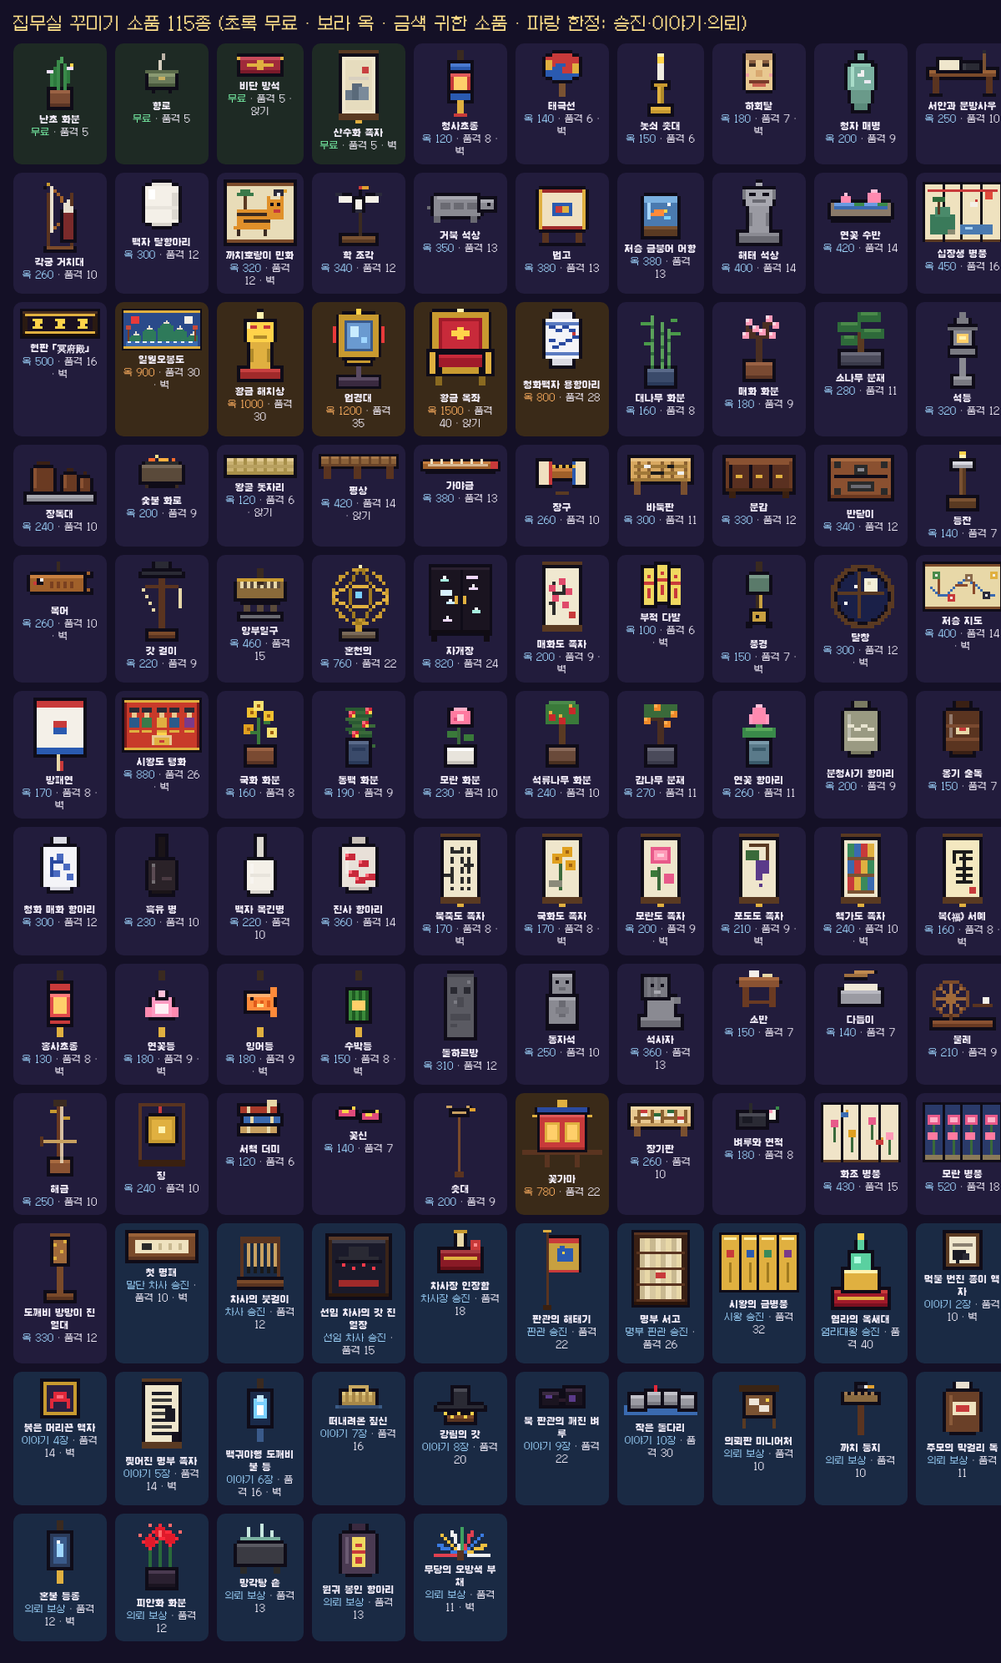
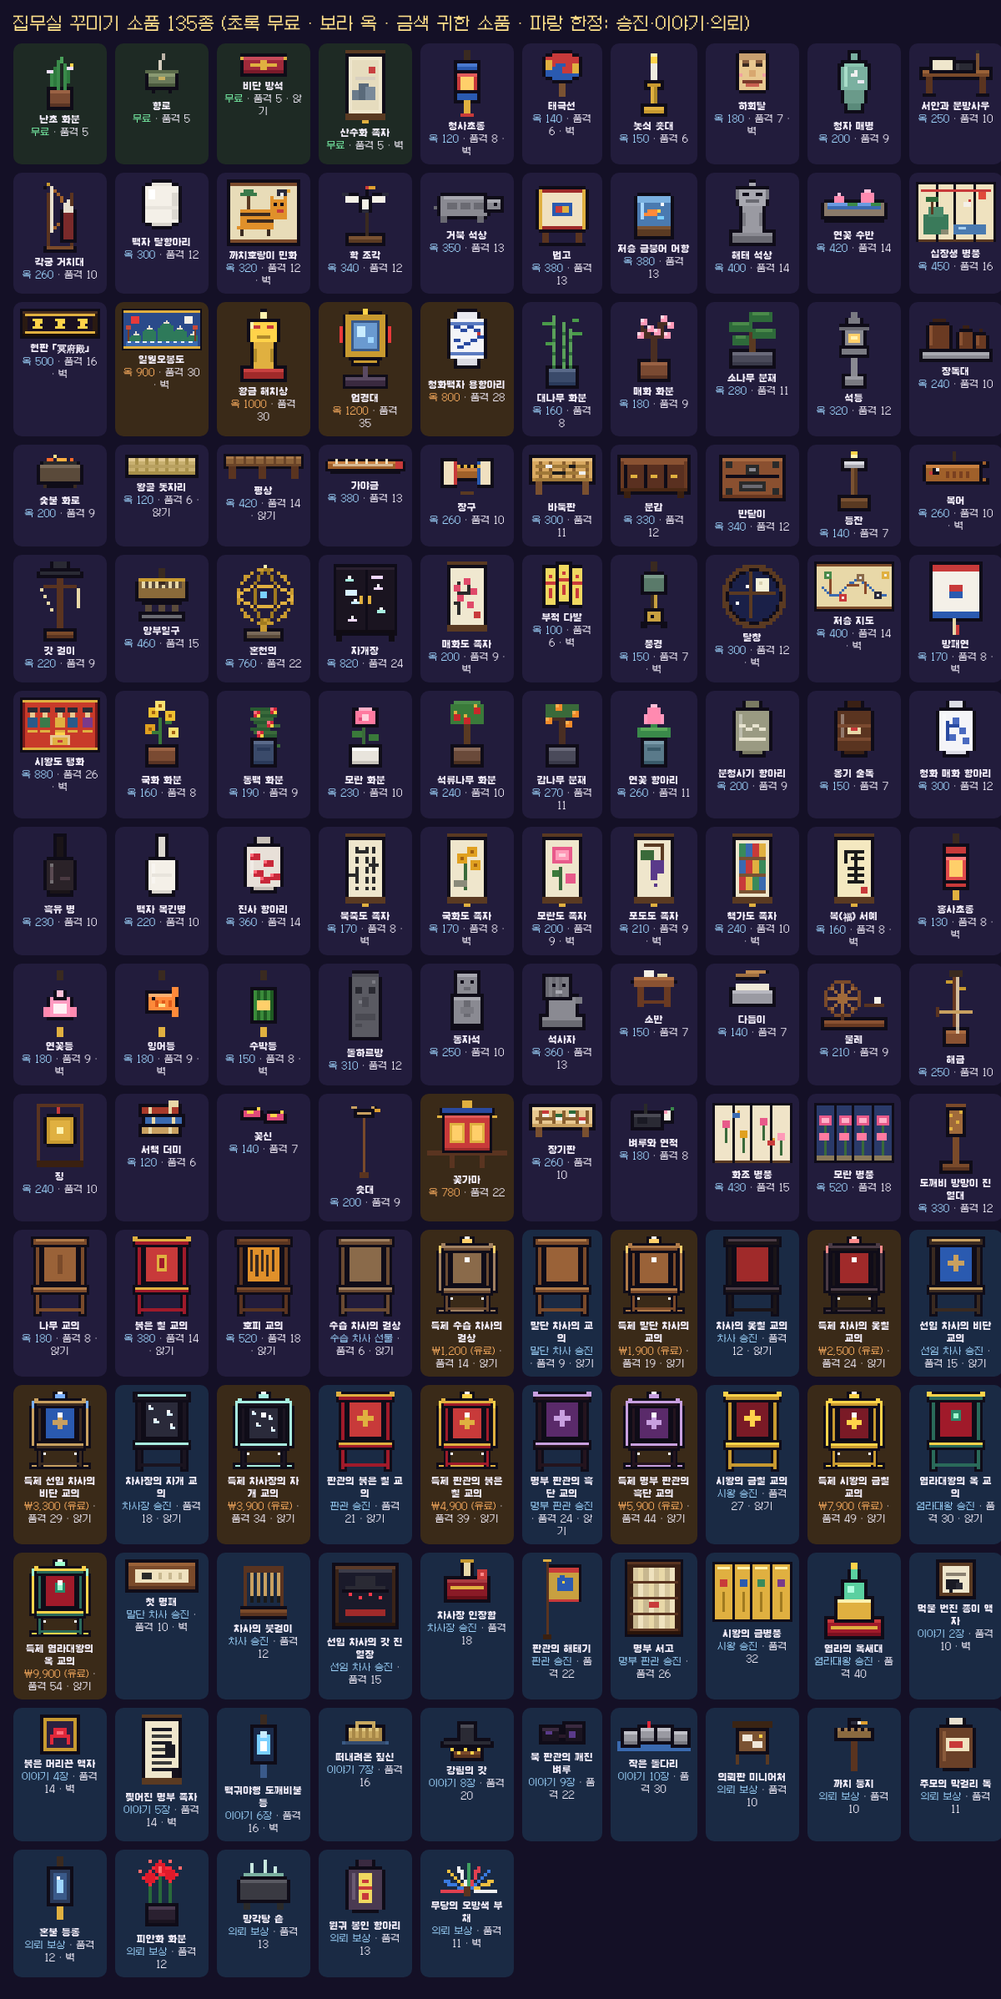
저승사자 키우기 미리보기: 직급별 의자 선물·특제 의자(유료)·책상 가운데 맞춤·보유 시 재구매 확인 (게임 미적용)
- 책상 뒤에 놓는 의자는 항상 책상 가운데에 맞춰짐
- 직급별 의자 9종: 첫 출근·승진할 때마다 선물
- 직급별 특제 의자 9종: 해당 직급부터 유료(테스트 결제)로 구매, 날개 장식·보석·빛
- 용상·황금 옥좌 삭제, 염라 세트 구성 변경
- 이미 가진 소품을 사려 하면 'x개 갖고 있어요, 더 살까요?' 확인
- 상점에 '의자' 분류 추가

Claude-Session: https://claude.ai/code/session_01JaPanueqCrKrVGBfKrPe2n

diff --git a/reaper_preview/js/ui.js b/reaper_preview/js/ui.js
@@ -419,6 +419,7 @@ const UI = (() => {
   }
   // ---------- 집무실 ----------
   function enterOffice() {
+    { const g = Decor.grantRank(S().rank); if (g.length) setTimeout(() => toast(g.length === 1 ? `🎁 「${g[0].name}」을(를) 선물로 받았어요! 꾸미기에서 놓아 보세요` : `🎁 직급 선물 ${g.length}개를 받았어요! (의자 ${g.filter(d => d.chair).length}개 포함) 꾸미기에서 놓아 보세요`, 3600), 600); }
     if (!Scene.inOffice()) { Scene.enterOffice(S().rank); Sound.play('open'); }
     let bar = $('#office-bar'); if (!bar) { bar = document.createElement('div'); bar.id = 'office-bar'; $('#stage').appendChild(bar); }
     const N = Game.nextRank();
@@ -549,18 +550,21 @@ const UI = (() => {
   }
   let shopCat = 'all';
   function decoShop() {
-    const s = S(), cats = [['all', '전체'], ['set', '세트'], ['floor', '바닥'], ['wall', '벽'], ['seat', '앉기'], ['premium', '귀한 것'], ['ex', '한정']];
-    const how = d => d.rank ? `${RANKS[d.rank].name} 승진` : d.story != null ? `이야기 ${d.story + 1}장` : '의뢰 보상';
-    const card = d => { const n = Decor.owned(d.id), ex = d.rank || d.story != null || d.quest; return `<div class="ds-card ${d.premium ? 'cash' : ''} ${ex ? 'ex' : ''}"><img class="px" src="${decoThumb(d.id, 3)}"><b>${d.name}</b><small>품격 +${d.pt}${d.seat ? ' · 앉기' : ''}${d.wall ? ' · 벽' : ''}</small><p>${d.desc}</p>${n ? `<em>보유 ${n}</em>` : ''}
-      ${ex ? `<button class="btn dark" disabled>${n ? '획득 완료' : '🔒 ' + how(d)}</button>` : d.free ? '<button class="btn dark" disabled>무료 지급</button>' : `<button class="btn jade" data-dbuy="${d.id}" ${s.jade >= d.price ? '' : 'disabled'}><img class="px" src="${IC('jade', 2)}">${d.price}</button>`}</div>`; };
+    const s = S(), cats = [['all', '전체'], ['set', '세트'], ['floor', '바닥'], ['wall', '벽'], ['seat', '앉기'], ['chair', '의자'], ['premium', '귀한 것'], ['ex', '한정']];
+    const how = d => d.rank != null ? (d.rank ? `${RANKS[d.rank].name} 승진` : '첫 출근 선물') : d.story != null ? `이야기 ${d.story + 1}장` : '의뢰 보상';
+    const card = d => { const n = Decor.owned(d.id), ex = Decor.isEx(d); return `<div class="ds-card ${d.premium ? 'cash' : ''} ${ex ? 'ex' : ''}"><img class="px" src="${decoThumb(d.id, 3)}"><b>${d.name}</b><small>품격 +${d.pt}${d.seat ? ' · 앉기' : ''}${d.wall ? ' · 벽' : ''}</small><p>${d.desc}</p>${n ? `<em>보유 ${n}</em>` : ''}
+      ${ex ? `<button class="btn dark" disabled>${n ? '획득 완료' : '🔒 ' + how(d)}</button>` : d.cash ? (s.rank >= d.rankReq ? `<button class="btn red" data-dcash="${d.id}">${d.cash}</button>` : `<button class="btn dark" disabled>🔒 ${RANKS[d.rankReq].name} 이상</button>`) : d.free ? '<button class="btn dark" disabled>무료 지급</button>' : `<button class="btn jade" data-dbuy="${d.id}" ${s.jade >= d.price ? '' : 'disabled'}><img class="px" src="${IC('jade', 2)}">${d.price}</button>`}</div>`; };
     const pack = P => { const got = Decor.packBought(P.id); return `<div class="ds-pack ${got ? 'got' : ''}"><div class="ds-pi">${P.items.map(id => `<img class="px" src="${decoThumb(id, 2)}">`).join('')}</div><div class="ds-pt"><b>${P.name}</b><small>${P.items.map(id => Decor.D(id).name).join(' · ')}</small><small><s>옥 ${P.full}</s> → <b class="sale">30% 할인</b></small></div>${got ? '<button class="btn dark" disabled>구매 완료</button>' : `<button class="btn jade" data-dpack="${P.id}" ${s.jade >= P.price ? '' : 'disabled'}><img class="px" src="${IC('jade', 2)}">${P.price}</button>`}</div>`; };
-    const list = shopCat === 'set' ? '' : DECOR.filter(d => shopCat === 'all' || (shopCat === 'floor' && !d.wall) || (shopCat === 'wall' && d.wall) || (shopCat === 'seat' && d.seat) || (shopCat === 'premium' && d.premium) || (shopCat === 'ex' && (d.rank || d.story != null || d.quest))).sort((a, b) => ((a.free ? 0 : a.price || 99999 + (a.rank || 0) * 10 + (a.story != null ? 100 + a.story : 0))) - ((b.free ? 0 : b.price || 99999 + (b.rank || 0) * 10 + (b.story != null ? 100 + b.story : 0))));
+    const list = shopCat === 'set' ? '' : DECOR.filter(d => shopCat === 'all' || (shopCat === 'floor' && !d.wall) || (shopCat === 'wall' && d.wall) || (shopCat === 'seat' && d.seat) || (shopCat === 'premium' && d.premium) || (shopCat === 'ex' && Decor.isEx(d)) || (shopCat === 'chair' && d.chair)).sort((a, b) => (a.free ? 0 : a.price || (a.cash ? 50000 + a.rankReq * 10 : 99999 + (a.rank || 0) * 10 + (a.story != null ? 100 + a.story : 0))) - (b.free ? 0 : b.price || (b.cash ? 50000 + b.rankReq * 10 : 99999 + (b.rank || 0) * 10 + (b.story != null ? 100 + b.story : 0))));
     const box = modal(`<h2>🏮 소품 상점 <small style="font-size:11px;color:var(--mute)">${DECOR.filter(d => Decor.owned(d.id)).length}/${DECOR.length}종 보유</small></h2><p class="mute">옥으로 사요. 놓은 소품의 품격만큼 수확량이 올라요 (최대 +40%) · 보유 옥 <b style="color:var(--jade)">${fmt(s.jade)}</b></p>
       <div class="ds-cats">${cats.map(([k, n]) => `<button data-dcat="${k}" class="${shopCat === k ? 'on' : ''}">${n}</button>`).join('')}</div>
       <div class="ds-scroll">${shopCat === 'all' || shopCat === 'set' ? `<div class="ds-packs">${DECOR_PACKS.map(pack).join('')}</div>` : ''}${list ? `<div class="ds-grid">${list.map(card).join('')}</div>` : ''}</div>
       <div class="acts"><button class="btn dark" data-act="close">닫기</button></div>`);
     box.querySelectorAll('[data-dcat]').forEach(b => b.onclick = () => { shopCat = b.dataset.dcat; closeModal(); decoShop(); });
-    box.querySelectorAll('[data-dbuy]').forEach(b => b.onclick = () => { const d = Decor.D(b.dataset.dbuy); if (Decor.buy(d.id)) { Sound.play('buy'); toast(`${d.name} 구입! 아래 목록에서 끌어다 놓아 보세요`); const sc = box.querySelector('.ds-scroll').scrollTop; closeModal(); decoBar(); decoShop(); const ns = $('#modal .ds-scroll'); if (ns) ns.scrollTop = sc; } else { Sound.play('no'); toast('옥이 부족해요'); } });
+    const askOwned = (d, go) => { const n = Decor.owned(d.id); if (!n) { go(); return; } const sc0 = box.querySelector('.ds-scroll').scrollTop; closeModal(); confirmBox(`<h2>${d.name}</h2><p>이미 <b style="color:var(--gold)">${n}개</b> 갖고 있어요.<br>하나 더 살까요?</p>`, () => { go(); }, '더 사기'); const cancel = $('#modal [data-act="close"]'); if (cancel) cancel.onclick = () => { closeModal(); decoShop(); const ns = $('#modal .ds-scroll'); if (ns) ns.scrollTop = sc0; }; };
+    box.querySelectorAll('[data-dcash]').forEach(b => b.onclick = () => { const d = Decor.D(b.dataset.dcash); askOwned(d, () => { closeModal(); confirmBox(`<h2>${d.name}</h2><p>${d.desc}</p><div class="big" style="color:var(--gold)">${d.cash}</div><p style="color:var(--mute);font-size:10px">테스트 결제: 실제로 청구되지 않습니다.</p>`, () => { if (Decor.buyCash(d.id)) { Sound.play('promote'); toast(`${d.name} 구입! 책상 뒤에 놓아 보세요`); decoBar(); } decoShop(); }, '구매'); }); });
+    box.querySelectorAll('[data-dbuy]').forEach(b => b.onclick = () => { const d = Decor.D(b.dataset.dbuy); askOwned(d, () => buyIt(d)); });
+    const buyIt = d => { const scEl = $('#modal .ds-scroll'); if (Decor.buy(d.id)) { Sound.play('buy'); toast(`${d.name} 구입! 아래 목록에서 끌어다 놓아 보세요`); const sc = scEl ? scEl.scrollTop : 0; closeModal(); decoBar(); decoShop(); const ns = $('#modal .ds-scroll'); if (ns) ns.scrollTop = sc; } else { Sound.play('no'); toast('옥이 부족해요'); } };
     box.querySelectorAll('[data-dpack]').forEach(b => b.onclick = () => { const P = DECOR_PACKS.find(x => x.id === b.dataset.dpack); closeModal(); confirmBox(`<h2>${P.name}</h2><p>${P.items.map(id => Decor.D(id).name).join(', ')}</p><p><s style="color:var(--mute)">옥 ${P.full}</s> → <b style="color:var(--jade)">옥 ${P.price}</b> (30% 할인 · 한 번만)</p>`, () => { if (Decor.buyPack(P.id)) { Sound.play('promote'); toast(`${P.name} 구입 완료!`); decoBar(); } else { Sound.play('no'); toast('옥이 부족해요'); } decoShop(); }, '구매'); });
   }
   function judgeModal() {

diff --git a/reaper_preview/js/decor.js b/reaper_preview/js/decor.js
@@ -85,9 +85,6 @@ const DECOR = (() => {
       box(r, 3, 24, 14, 3, '#3a2a40', '#5a4a62'); r(9, 18, 2, 6, '#5a4a62'); r(5, 18, 10, 2, O); r(6, 18, 8, 1, '#c89a30');
       r(4, 1, 12, 1, O); r(2, 2, 16, 15, O); r(4, 17, 12, 1, O); r(3, 2, 14, 15, '#c89a30'); r(5, 4, 10, 11, '#3a5a8a'); r(6, 5, 8, 9, '#6a9ad0'); r(7, 6, 3, 4, '#c8ecff'); r(11, 10, 2, 2, '#9fd6ff');
       r(1, 6, 1, 6, '#e83a3a'); r(18, 6, 1, 6, '#e83a3a'); r(9, 0, 2, 2, '#ffd34a'); }) },
-    { id: 'throne', price: 1500, premium: 1, name: '황금 옥좌', fw: 2, fh: 1, pt: 40, seat: 1, desc: '앉으면 저승이 내 것 같은 옥좌', glow: '#ffd34a', draw: () => mk(22, 26, r => {
-      r(2, 0, 18, 1, O); r(1, 1, 20, 15, O); r(2, 1, 18, 14, '#c89a30'); r(4, 3, 14, 12, '#a01a2a'); r(5, 4, 12, 10, '#c82a3a'); r(10, 6, 2, 4, '#ffd34a'); r(8, 7, 6, 2, '#ffd34a');
-      r(0, 13, 22, 1, O); r(0, 14, 4, 8, O); r(18, 14, 4, 8, O); r(1, 14, 2, 7, '#e0b040'); r(19, 14, 2, 7, '#e0b040'); box(r, 4, 15, 14, 4, '#a01a2a', '#c82a3a'); r(4, 19, 14, 3, O); r(5, 19, 12, 2, '#c89a30'); r(3, 22, 2, 3, '#8a6a20'); r(17, 22, 2, 3, '#8a6a20'); r(10, 0, 2, 1, '#fff3b0'); }) },
     { id: 'dragonjar', price: 800, premium: 1, name: '청화백자 용항아리', fw: 1, fh: 1, pt: 28, desc: '푸른 용이 휘감은 왕실 항아리', draw: () => mk(14, 20, r => {
       r(4, 0, 6, 1, O); r(3, 1, 8, 2, O); r(1, 3, 12, 12, O); r(3, 15, 8, 3, O); r(4, 1, 6, 2, '#e8e8f0'); r(2, 3, 10, 12, '#f4f4f8'); r(4, 15, 6, 2, '#dcdce4');
       [[3, 5], [5, 6], [7, 5], [9, 6], [10, 8], [8, 9], [6, 10], [4, 11], [3, 9]].forEach(([x, y]) => r(x, y, 2, 1, '#2a4aa0')); r(10, 7, 1, 1, '#c83a3a'); r(2, 4, 10, 1, '#5a7ac0'); r(2, 13, 10, 1, '#5a7ac0'); }) },
@@ -173,16 +170,19 @@ const DECOR_PACKS = [
   { id: 'p_salim', name: '정겨운 살림 세트', items: ['jangdok', 'bandaji', 'brazier', 'mat', 'fan'] },
   { id: 'p_jeoseung', name: '저승 관아 세트', items: ['mokeo', 'gatrack', 'bujeok', 'jeoseungmap', 'drum'] },
   { id: 'p_royal', name: '왕실 집무실 세트', items: ['irwol', 'goldhaechi', 'dragonjar'] },
-  { id: 'p_yeomra', name: '염라의 옥좌 세트', items: ['throne', 'mirror', 'taenghwa'] },
+  { id: 'p_yeomra', name: '염라의 업경대 세트', items: ['mirror', 'taenghwa', 'jagae'] },
 ];
 DECOR_PACKS.forEach(P => { P.full = P.items.reduce((a, id) => a + DECOR.find(d => d.id === id).price, 0); P.price = Math.round(P.full * 0.7 / 10) * 10; });
 const Decor = (() => {
   const S = () => Game.S;
   const D = id => DECOR.find(d => d.id === id);
   function ensure() { const s = S(); if (!s.decor) s.decor = { own: {}, placed: [], gift: 0 }; if (!s.decor.gift) { DECOR.filter(d => d.free).forEach(d => (s.decor.own[d.id] = (s.decor.own[d.id] || 0) + 1)); s.decor.gift = 1; } return s.decor; }
+  const isEx = d => d.rank != null || d.story != null || !!d.quest; // 승진·이야기·의뢰로만 얻는 소품
+  // 유료 특제 의자 (테스트 결제): 그 직급에 오르면 살 수 있다
+  function buyCash(id) { const d = D(id), s = S(); if (!d || !d.cash || s.rank < (d.rankReq || 0)) return false; ensure().own[id] = owned(id) + 1; Game.save(); return true; }
   // 한정 소품 지급: 승진·이야기·의뢰 (중복 지급 방지)
   function grant(d) { const dc = ensure(); dc.got = dc.got || {}; if (dc.got[d.id]) return null; dc.got[d.id] = 1; dc.own[d.id] = (dc.own[d.id] || 0) + 1; return d; }
-  function grantRank(rank) { const out = DECOR.filter(d => d.rank && d.rank <= rank).map(grant).filter(Boolean); if (out.length) Game.save(); return out; }
+  function grantRank(rank) { const out = DECOR.filter(d => d.rank != null && d.rank <= rank).map(grant).filter(Boolean); if (out.length) Game.save(); return out; }
   function grantStory(ch) { const out = DECOR.filter(d => d.story != null && d.story <= ch).map(grant).filter(Boolean); if (out.length) Game.save(); return out; }
   function grantQuest() { const dc = ensure(); dc.got = dc.got || {}; const pool = DECOR.filter(d => d.quest && !dc.got[d.id]); if (!pool.length) return null; const d = grant(pool[Math.floor(Math.random() * pool.length)]); Game.save(); return d; }
   const img = id => { const d = D(id); return d.img || (d.img = d.draw()); };
@@ -190,7 +190,7 @@ const Decor = (() => {
   const placedCount = id => ensure().placed.filter(p => p.id === id).length;
   const spare = id => owned(id) - placedCount(id);
   const maxPlace = () => Infinity; // 배치 개수 제한 없음 (빈자리만 있으면 얼마든지)
-  function buy(id) { const d = D(id), s = S(); if (!d || !d.price || d.rank || d.story != null || d.quest || s.jade < d.price) return false; s.jade -= d.price; ensure().own[id] = owned(id) + 1; Game.save(); return true; }
+  function buy(id) { const d = D(id), s = S(); if (!d || !d.price || isEx(d) || d.cash || s.jade < d.price) return false; s.jade -= d.price; ensure().own[id] = owned(id) + 1; Game.save(); return true; }
   function buyPack(pid) { const P = DECOR_PACKS.find(p => p.id === pid), s = S(); if (!P) return false; ensure(); s.decor.packs = s.decor.packs || {}; if (s.decor.packs[pid] || s.jade < P.price) return false; s.jade -= P.price; P.items.forEach(id => (s.decor.own[id] = owned(id) + 1)); s.decor.packs[pid] = 1; Game.save(); return true; }
   const packBought = pid => !!((ensure().packs || {})[pid]);
   function place(id, gx, gy) { const dc = ensure(); if (spare(id) <= 0 || dc.placed.length >= maxPlace()) return false; dc.placed.push({ id, gx, gy }); Game.apply(); Game.save(); return true; }
@@ -199,5 +199,5 @@ const Decor = (() => {
   const score = () => ensure().placed.reduce((a, p) => a + (D(p.id) ? D(p.id).pt : 0), 0);
   const mul = () => (S() && S().decor ? 1 + Math.min(0.4, score() * 0.0025) : 1);
   const title = sc => sc >= 160 ? '저승 제일의 집무실' : sc >= 100 ? '화려한 집무실' : sc >= 50 ? '품위 있는 집무실' : sc >= 20 ? '아늑한 집무실' : '소박한 집무실';
-  return { D, ensure, grantRank, grantStory, grantQuest, img, packBought, owned, spare, placedCount, maxPlace, buy, buyPack, place, remove, score, mul, title };
+  return { D, isEx, buyCash, ensure, grantRank, grantStory, grantQuest, img, packBought, owned, spare, placedCount, maxPlace, buy, buyPack, place, remove, score, mul, title };
 })();

diff --git a/reaper_preview/js/decor2.js b/reaper_preview/js/decor2.js
@@ -85,7 +85,39 @@
   add({ id: 'gyoui', name: '나무 교의', fw: 2, fh: 1, pt: 8, price: 180, seat: 1, chair: 1, desc: '책상 뒤에 두는 등받이 의자', draw: () => mk(22, 30, r => { chair(r, '#7a4a2a', '#9a6238', '#b07a48'); r(10, 7, 2, 7, '#7a4a2a'); }) });
   add({ id: 'hongchil', name: '붉은 칠 교의', fw: 2, fh: 1, pt: 14, price: 380, seat: 1, chair: 1, desc: '관아 판관들이 앉던 붉은 칠 의자', draw: () => mk(22, 30, r => { chair(r, '#a01a2a', '#c83a3a', '#e0b040', () => { r(0, 0, 2, 2, '#e0b040'); r(20, 0, 2, 2, '#e0b040'); }); r(9, 7, 4, 6, '#e0b040'); r(10, 8, 2, 4, '#a01a2a'); }) });
   add({ id: 'hopi', name: '호피 교의', fw: 2, fh: 1, pt: 18, price: 520, seat: 1, chair: 1, desc: '호랑이 가죽을 덮은 장군의 의자', draw: () => mk(22, 30, r => { chair(r, '#5a3420', '#e0902a', '#7a4a2a'); for (let k = 0; k < 5; k++) r(6 + k * 2, 5 + (k % 2) * 2, 1, 8, '#3a2a20'); r(5, 15, 12, 2, '#e0902a'); }) });
-  add({ id: 'yongsang', name: '용상', fw: 2, fh: 1, pt: 32, price: 1100, premium: 1, seat: 1, chair: 1, glow: '#ffd34a', desc: '용이 새겨진 왕의 의자. 책상 뒤에 두면 위엄이 넘친다', draw: () => mk(22, 30, r => { chair(r, '#c89a30', '#a01a2a', '#ffd34a', () => { r(8, -1, 6, 2, '#fff3b0'); r(0, 0, 3, 3, '#ffd34a'); r(19, 0, 3, 3, '#ffd34a'); }); for (let k = 0; k < 6; k++) r(6 + k * 2, 7 + Math.round(Math.sin(k) * 2), 2, 1, '#ffd34a'); r(10, 11, 2, 2, '#7ad0ff'); }) });
+
+  // ---------- 직급별 의자: 승진할 때 선물(9종) + 더 화려한 특제 의자(9종, 유료) ----------
+  const CH = [
+    { n: '수습 차사의 걸상', w: '#6a4a32', c: '#8a6a4a', t: '#a08060' },
+    { n: '말단 차사의 교의', w: '#7a4a2a', c: '#9a6238', t: '#b07a48' },
+    { n: '차사의 옻칠 교의', w: '#1a1418', c: '#a02a2a', t: '#4a3a44' },
+    { n: '선임 차사의 비단 교의', w: '#3a2a20', c: '#2a5ab0', t: '#c8a060' },
+    { n: '차사장의 자개 교의', w: '#1a1420', c: '#2a2a3a', t: '#a8f0e0', pearl: 1 },
+    { n: '판관의 붉은 칠 교의', w: '#a01a2a', c: '#c83a3a', t: '#e0b040' },
+    { n: '명부 판관의 흑단 교의', w: '#24141e', c: '#5a2a6a', t: '#c8a0e0' },
+    { n: '시왕의 금칠 교의', w: '#c89a30', c: '#7a1a26', t: '#ffd34a' },
+    { n: '염라대왕의 옥 교의', w: '#2a6a5a', c: '#a01a2a', t: '#ffd34a', jade: 1 },
+  ];
+  const RN = ['수습 차사', '말단 차사', '차사', '선임 차사', '차사장', '판관', '명부 판관', '시왕', '염라대왕'];
+  const CASH = ['₩1,200', '₩1,900', '₩2,500', '₩3,300', '₩3,900', '₩4,900', '₩5,900', '₩7,900', '₩9,900'];
+  const GLOW = ['#ffcf6a', '#ffcf6a', '#ff8a8a', '#7ab0ff', '#a8f0e0', '#ffd34a', '#c8a0e0', '#ffd34a', '#9fffd0'];
+  CH.forEach((C, n) => {
+    const base = (r, deluxe) => {
+      chair(r, C.w, C.c, C.t, () => { if (n >= 5 || deluxe) { r(0, 0, 2, 2, C.t); r(20, 0, 2, 2, C.t); } });
+      if (C.pearl) [[6, 6], [13, 8], [8, 11], [14, 13]].forEach(([x, y]) => { r(x, y, 2, 1, '#d8f0ff'); r(x, y - 1, 1, 1, '#ffffff'); });
+      if (C.jade) { r(9, 7, 4, 4, '#2a8a6a'); r(10, 8, 2, 2, '#9fffd0'); }
+      if (n >= 3 && !C.pearl && !C.jade) { r(10, 7, 2, 6, C.t); r(8, 9, 6, 2, C.t); }
+    };
+    add({ id: 'rc' + n, name: C.n, rank: n, fw: 2, fh: 1, pt: 6 + n * 3, seat: 1, chair: 1, desc: `${RN[n]}${n ? ' 승진' : ' 첫 출근'} 선물. 책상 뒤 파란 칸에 놓으면 앉아요`, draw: () => mk(22, 30, r => base(r, false)) });
+    add({ id: 'cc' + n, name: '특제 ' + C.n, cash: CASH[n], rankReq: n, fw: 2, fh: 1, pt: 14 + n * 5, seat: 1, chair: 1, glow: GLOW[n], premium: 1, desc: `${RN[n]} 전용 특제 의자. 날개 장식과 보석이 빛나요`, draw: () => mk(26, 34, r => {
+      // 바깥 날개 장식 + 머리 보주 + 받침
+      r(0, 6, 3, 18, O); r(23, 6, 3, 18, O); r(1, 7, 1, 16, C.t); r(24, 7, 1, 16, C.t); r(1, 4, 2, 3, GLOW[n]); r(23, 4, 2, 3, GLOW[n]);
+      r(10, 0, 6, 4, O); r(11, 1, 4, 2, GLOW[n]); r(12, 0, 2, 1, '#ffffff');
+      r(0, 30, 26, 3, O); r(1, 31, 24, 1, C.t);
+      const sub = (x, y, w, h, col) => r(x + 2, y + 3, w, h, col); base(sub, true);
+      r(12, 9, 2, 2, '#ffffff'); r(6, 26, 1, 1, '#ffffff'); r(19, 26, 1, 1, '#ffffff');
+    }) });
+  });
 
   // ---------- 승진 기념 소품 (상점 판매 안 함) ----------
   add({ id: 'r1_plate', name: '첫 명패', rank: 1, wall: 1, fw: 2, fh: 1, pt: 10, desc: '말단 차사 승진 기념. 내 이름 칸은 아직 비어 있다', draw: () => mk(22, 10, r => { box(r, 1, 1, 20, 8, '#7a4a2a', '#9a6238', '#5a3420'); r(3, 3, 16, 4, '#efe2bf'); r(5, 4, 3, 2, '#2a2a2a'); r(10, 4, 1, 2, '#c8b890'); r(13, 4, 1, 2, '#c8b890'); r(16, 4, 1, 2, '#c8b890'); }) });

diff --git a/reaper_preview/js/scene.js b/reaper_preview/js/scene.js
@@ -625,7 +625,7 @@ const Scene = (() => {
     const placed = hooks.decorPlaced ? hooks.decorPlaced() : [];
     if (edit) {
       const gx = Math.floor(x / G), gy = Math.floor(y / G);
-      if (ghost) { const d = Decor.D(ghost), cx = Math.round(gx - (d.fw - 1) / 2), cy = d.wall ? Math.round(gy - (d.fh - 1) / 2) : gy - d.fh + 1; hover = { gx: cx, gy: cy, ignore: hover && hover.ignore }; hooks.decorTap && hooks.decorTap(cx, cy, decoFits(ghost, cx, cy, hover.ignore)); return; }
+      if (ghost) { const d = Decor.D(ghost), sn = snapChair(ghost, { gx: Math.round(gx - (d.fw - 1) / 2), gy: d.wall ? Math.round(gy - (d.fh - 1) / 2) : gy - d.fh + 1 }), cx = sn.gx, cy = sn.gy; hover = { gx: cx, gy: cy, ignore: hover && hover.ignore }; hooks.decorTap && hooks.decorTap(cx, cy, decoFits(ghost, cx, cy, hover.ignore)); return; }
       for (let i = placed.length - 1; i >= 0; i--) { const p = placed[i], r = decoRect(p.id, p.gx, p.gy); if (x >= r.x && x < r.x + r.w && y >= r.y - (Decor.D(p.id).wall ? 0 : 10) && y < r.y + r.h) { hooks.decorPick && hooks.decorPick(i); return; } }
       return;
     }
@@ -638,7 +638,9 @@ const Scene = (() => {
   // 꾸미기: 놓인 소품을 눌러 끌면 옮기고, 그냥 누르면 메뉴
   let press = null;
   const toOffice = e => { const r = cv.getBoundingClientRect(); return { x: (e.clientX - r.left) / S, y: (e.clientY - r.top) / S }; };
-  const cellAt = (id, x, y) => { const d = Decor.D(id); return { gx: Math.round(x / G - d.fw / 2), gy: Math.round(y / G - d.fh / 2) }; };
+  // 책상 뒤(파란 칸)에 놓는 의자는 책상 가운데에 딱 맞춘다
+  function snapChair(id, c) { const d = Decor.D(id); if (!d.seat || !officeData) return c; const r = decoRect(id, c.gx, c.gy), b = officeData.chairB; if (!hit(r, { x: b.x, y: b.y - 6, w: b.w, h: b.h + 10 })) return c; return { gx: (officeData.desk.x - d.fw * G / 2) / G, gy: (b.y + b.h - d.fh * G) / G }; }
+  const cellAt = (id, x, y) => { const d = Decor.D(id); return snapChair(id, { gx: Math.round(x / G - d.fw / 2), gy: Math.round(y / G - d.fh / 2) }); };
   function down(e) { if (office) { const p = toOffice(e);
       if (edit && !ghost) { const placed = hooks.decorPlaced ? hooks.decorPlaced() : []; for (let i = placed.length - 1; i >= 0; i--) { const q = placed[i], r = decoRect(q.id, q.gx, q.gy); if (p.x >= r.x && p.x < r.x + r.w && p.y >= r.y - (Decor.D(q.id).wall ? 0 : 10) && p.y < r.y + r.h) { press = { i, id: q.id, x0: e.clientX, y0: e.clientY, moved: false }; cv.setPointerCapture && cv.setPointerCapture(e.pointerId); return; } } return; }
       officeTap(p.x, p.y); return; } if (arena) { tap(e); return; } drag = { x: e.clientX, y: e.clientY, cx: camX, cy: camY, moved: false }; cv.setPointerCapture && cv.setPointerCapture(e.pointerId); }
